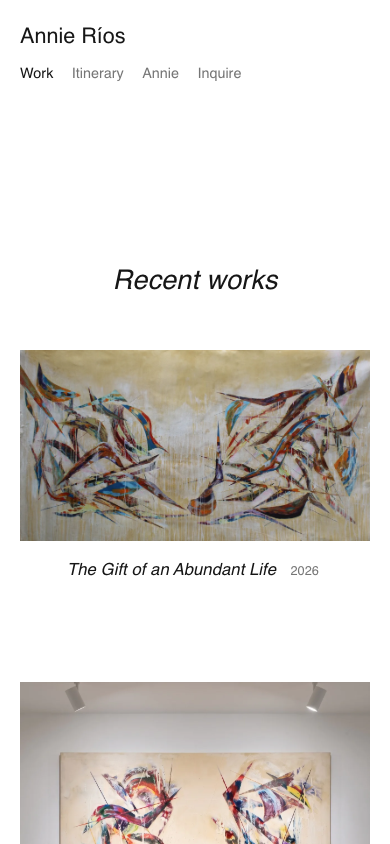
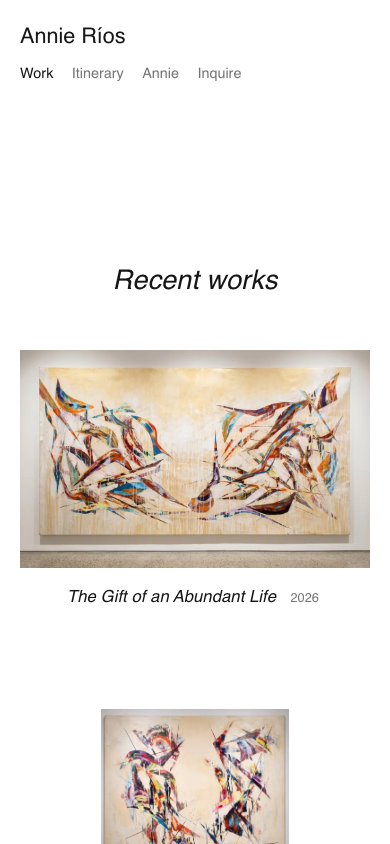
Use the gallery photos for Gift of an Abundant Life and Untitled.

diff --git a/threeelementsofarefraction/index.html b/threeelementsofarefraction/index.html
@@ -36,7 +36,7 @@
         <div data-lang="es"><h2>LOS TRES ELEMENTOS DE UNA REFRACCIÓN</h2><p class="by">Annie Ríos, 2025</p><p>Los Tres Elementos de una Refracción examina el encuentro de la luz con la materia como hecho óptico y desafío perceptual. Ríos aísla el proceso de tres etapas de la refracción—rayo incidente, punto de incidencia, rayo refractado—utilizándolo como marco estructural para un cuerpo de obra que cuestiona cómo la aceleración contemporánea ha disminuido nuestra capacidad de atención visual sostenida.</p><p>Las pinturas emplean aplanamiento cromático, una técnica en la que el acrílico se vierte y superpone en capas, permitiendo que los colores se fusionen de manera orgánica. Líneas blancas trazan la trayectoria de la luz mientras establecen divisiones geométricas. Este enfoque extiende las investigaciones sobre cómo los colores interactúan y se comportan materialmente, mientras reintroduce el gesto controlado. Los lienzos de gran formato exigen atención sostenida del espectador.</p><p>Trabajando desde Ciudad de Panamá, Ríos describe estas obras como "espacios íntimos para la introspección personal absoluta"—pinturas que exigen compromiso óptico en lugar de consumo pasivo.</p><p>El cuerpo de obra posiciona la abstracción no como alejamiento de la realidad observable sino como medio para documentarla. Estas son pinturas de algo que existe—la luz doblándose a través de la materia—insistiendo en que mirar deliberadamente podría recalibrar la percepción habitual.</p></div>
       </section>
       <article class="hang" id="the-gift-of-an-abundant-life">
-        <picture><source type="image/webp" srcset="/images/display/the-gift-of-an-abundant-life-w1600.webp 1600w, /images/the-gift-of-an-abundant-life.webp 1919w" sizes="(max-width: 800px) 92vw, min(72vw, 52rem)"><img src="/images/the-gift-of-an-abundant-life.jpg" alt="The Gift of an Abundant Life" width="1919" height="1045"></picture>
+        <picture><source type="image/webp" srcset="/images/display/the-gift-of-an-abundant-life-w1600.webp 1600w, /images/the-gift-of-an-abundant-life.webp 1024w" sizes="(max-width: 800px) 92vw, min(72vw, 52rem)"><img src="/images/the-gift-of-an-abundant-life.jpg" alt="The Gift of an Abundant Life" width="1024" height="636"></picture>
         <div class="caption">
           <em data-lang="en">The Gift of an Abundant Life</em>
           <span class="line">2026; Acrylic on canvas, oak wood frame; 274 × 150 cm</span>
@@ -44,12 +44,12 @@
           
         </div>
       </article>
-      <article class="hang" id="signed-canvas-2026">
-        <picture><source type="image/webp" srcset="/images/display/2026-signed-canvas-w1600.webp 1600w, /images/2026-signed-canvas.webp 1255w" sizes="(max-width: 800px) 92vw, min(72vw, 52rem)"><img src="/images/2026-signed-canvas.jpg" alt="Abstract painting, 2026" width="1255" height="1680" loading="lazy"></picture>
+      <article class="hang" id="untitled">
+        <picture><source type="image/webp" srcset="/images/display/untitled-w1600.webp 1600w, /images/untitled.webp 839w" sizes="(max-width: 800px) 92vw, min(72vw, 52rem)"><img src="/images/untitled.jpg" alt="Untitled" width="839" height="1024" loading="lazy"></picture>
         <div class="caption">
-          
+          <em data-lang="en">Untitled</em>
           <span class="line">2026; Acrylic on canvas, oak wood frame</span>
-          <a class="ask" href="/inquire/?work=signed-canvas-2026">Inquire</a>
+          <a class="ask" href="/inquire/?work=Untitled">Inquire</a>
           
         </div>
       </article>

diff --git a/work/index.html b/work/index.html
@@ -27,17 +27,17 @@
     <section class="room">
       <figure>
         <a href="/threeelementsofarefraction/#the-gift-of-an-abundant-life">
-          <picture><source type="image/webp" srcset="/images/display/the-gift-of-an-abundant-life-w1600.webp 1600w, /images/the-gift-of-an-abundant-life.webp 1919w" sizes="(max-width: 700px) 92vw, min(56rem, 80vw)"><img src="/images/the-gift-of-an-abundant-life.jpg" alt="The Gift of an Abundant Life" width="1919" height="1045"></picture>
+          <picture><source type="image/webp" srcset="/images/display/the-gift-of-an-abundant-life-w1600.webp 1600w, /images/the-gift-of-an-abundant-life.webp 1024w" sizes="(max-width: 700px) 92vw, min(56rem, 80vw)"><img src="/images/the-gift-of-an-abundant-life.jpg" alt="The Gift of an Abundant Life" width="1024" height="636"></picture>
         </a>
         <figcaption class="caption"><em>The Gift of an Abundant Life</em><span>2026</span></figcaption>
       </figure>
     </section>
     <section class="room">
       <figure>
-        <a href="/threeelementsofarefraction/#signed-canvas-2026">
-          <picture><source type="image/webp" srcset="/images/display/2026-signed-canvas-w1600.webp 1600w, /images/2026-signed-canvas.webp 1255w" sizes="(max-width: 700px) 92vw, min(56rem, 80vw)"><img src="/images/2026-signed-canvas.jpg" alt="Abstract painting, 2026" width="1255" height="1680" loading="lazy"></picture>
+        <a href="/threeelementsofarefraction/#untitled">
+          <picture><source type="image/webp" srcset="/images/display/untitled-w1600.webp 1600w, /images/untitled.webp 839w" sizes="(max-width: 700px) 92vw, min(56rem, 80vw)"><img src="/images/untitled.jpg" alt="Untitled" width="839" height="1024" loading="lazy"></picture>
         </a>
-        <figcaption class="caption"><span>2026</span></figcaption>
+        <figcaption class="caption"><em>Untitled</em><span>2026</span></figcaption>
       </figure>
     </section>
     <section class="room">

diff --git a/inquire/index.html b/inquire/index.html
@@ -34,6 +34,7 @@
               <option value="">—</option>
               <option>Studio visit / other</option>
               <option>The Gift of an Abundant Life</option>
+              <option>Untitled</option>
               <option>Red Thread</option>
               <option>Casa Amarilla</option>
               <option>El Ocaso</option>

diff --git a/_verify.py b/_verify.py
@@ -29,7 +29,7 @@ PAGES = [
 
 MUST_CONTAIN = {
     "/": ["Past", "Now", "Future"],
-    "/work/": ["Recent works", "The Gift of an Abundant Life", "This is Abstraction"],
+    "/work/": ["Recent works", "The Gift of an Abundant Life", "Untitled", "This is Abstraction"],
     "/about/": ["chromatic flattening", "synergy between beauty and the fractured"],
     "/itinerary/": ["Habitante", "BoConcept", "Show me a Feeling"],
     "/inquire/": ["annieabstracts@gmail.com", "WhatsApp"],

diff --git a/MISSING_CONTENT.md b/MISSING_CONTENT.md
@@ -14,7 +14,7 @@ These works now have sizes from you or from `Portfolio_Annie_Rios_Agosto_2026 (2
 
 ## Years
 
-- **Signed 2026 canvas** (the second painting you sent, with your signature) — the August 2026 catalogue repeats *The Gift of an Abundant Life* and 274 × 150 cm on that page, but it is a different painting. I did not copy that title or size. Please send the real title and dimensions.
+- **Untitled** (2026, signed canvas) — titled from the file you sent. The August 2026 catalogue repeats *The Gift of an Abundant Life* and 274 × 150 cm on that page, but it is a different painting. Size still not confirmed.
 - **What Remains Below** is now dated **2026** from the August catalogue (the old site had no year).
 - **Sinking Ship** is dated 2025 on the Show Me a Feeling page (a 2023–2024 series).
 - **This is Abstraction** — page years 2019–2022; the four works are dated 2023; the CV lists the Lanzarote shows as 2022 and 2023.
